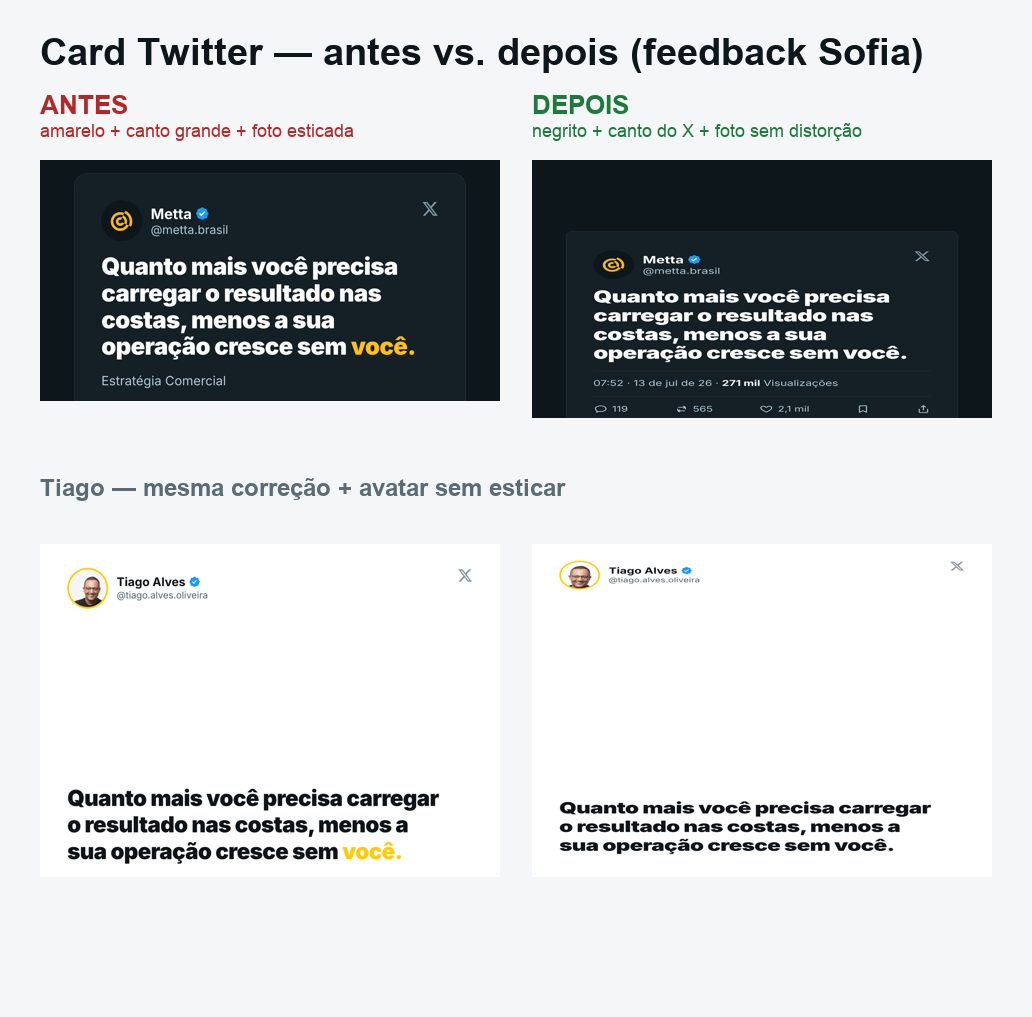
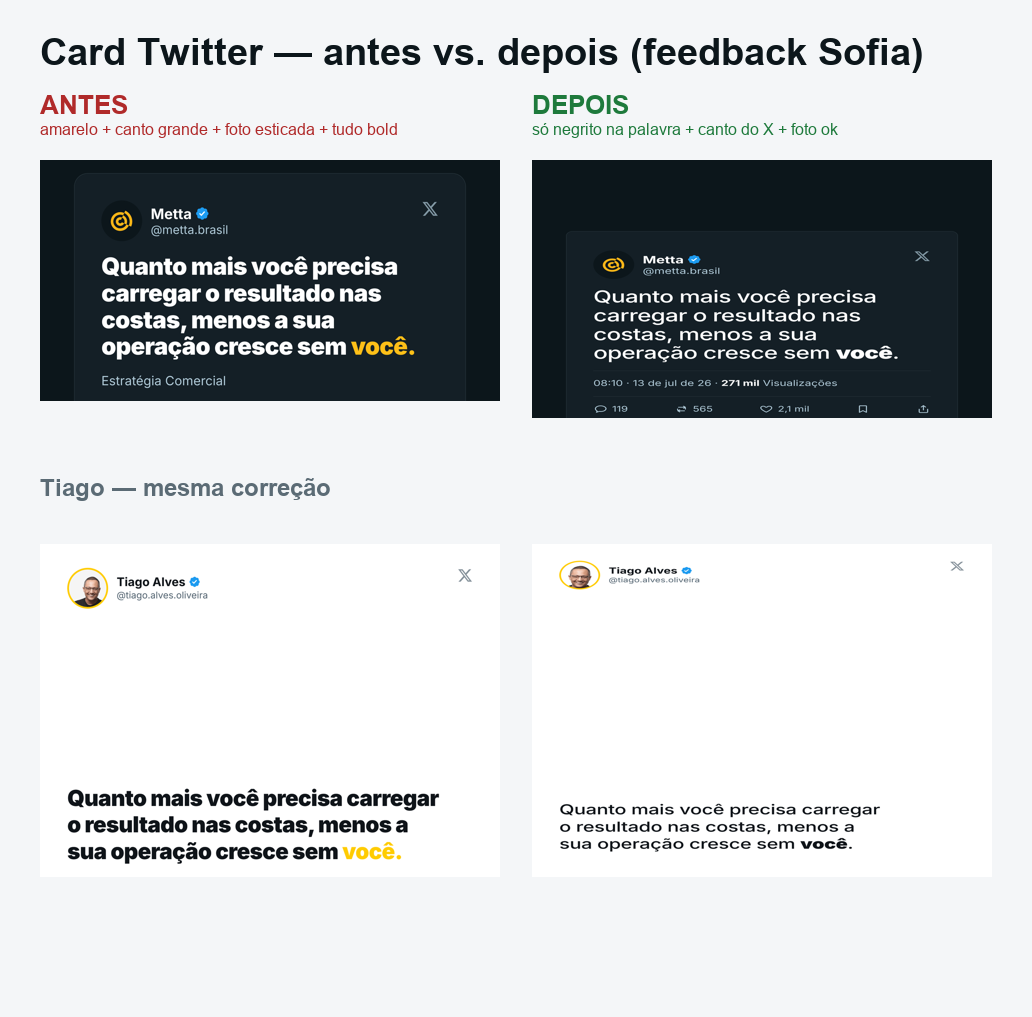
fix(tweet): corpo do texto em peso normal, negrito só na palavra
Tudo em negrito no headline inteiro nao e como o X renderiza (feedback
direto: "vc fez tudo em negrito"). t-head base do card-mock e do
tiago-twitter herdava peso 900 da marca; agora corpo fica 500 (normal) e
so o span .hi (palavra com *asterisco*) fica 900. tiago-twitter tambem
passa a usar a fonte de texto (Inter), nao mais o display da marca — texto
de tweet nao e headline de anuncio.

diff --git a/source/ad-blueprints/_engine.css b/source/ad-blueprints/_engine.css
@@ -405,7 +405,9 @@ button { all: unset; }
 .ad[data-arch="card-mock"] .who .handle { font-family: var(--m-text); font-size: 28px; color: var(--m-night-40); }
 .ad[data-arch="card-mock"] .verified { width: 34px; height: 34px; flex-shrink: 0; }
 .ad[data-arch="card-mock"] .x-logo { width: 40px; height: 40px; margin-left: auto; align-self: flex-start; color: var(--m-night-40); opacity: .7; }
-.ad[data-arch="card-mock"] .t-head { font-family: var(--m-text); font-weight: 700; font-size: 56px; line-height: 1.12; text-transform: none; letter-spacing: -.02em; color: var(--m-night-10); }
+/* print real do X: corpo do tweet é peso normal, só a palavra em negrito
+   (feedback Sofia — "tudo em negrito" não é como o X renderiza). */
+.ad[data-arch="card-mock"] .t-head { font-family: var(--m-text); font-weight: 500; font-variation-settings: normal; font-size: 56px; line-height: 1.12; text-transform: none; letter-spacing: -.02em; color: var(--m-night-10); }
 /* print real do X não tem destaque colorido — só negrito na palavra (feedback Sofia) */
 .ad[data-arch="card-mock"] .t-head .hi { color: inherit; font-weight: 900; }
 .ad[data-arch="card-mock"] .t-body { font-size: 30px; color: var(--m-night-40); }
@@ -676,7 +678,12 @@ button { all: unset; }
 .ad[data-marca="tiago"][data-arch="tiago-twitter"] .x-logo { width: 36px; height: 36px; margin-left: auto; align-self: flex-start; color: var(--t-grey); opacity: .7; }
 .ad[data-marca="tiago"][data-arch="tiago-twitter"] .tw-handle { font-size: 22px; color: var(--t-grey); line-height: 1.2; }
 .ad[data-marca="tiago"][data-arch="tiago-twitter"] .tw-text { display: flex; flex-direction: column; gap: 24px; flex: 1; justify-content: center; }
-.ad[data-marca="tiago"][data-arch="tiago-twitter"] .tw-headline { font-size: 52px; line-height: 1.2; letter-spacing: -.02em; color: var(--t-ink); margin: 0; word-break: break-word; }
+/* print real do X: fonte de texto (nao o display da marca) + peso normal no
+   corpo, só a palavra em negrito (feedback Sofia). */
+.ad[data-marca="tiago"][data-arch="tiago-twitter"] .tw-headline {
+  font-family: var(--t-text, 'Inter', sans-serif); font-weight: 500; font-variation-settings: normal;
+  font-size: 46px; line-height: 1.25; letter-spacing: -.01em; text-transform: none; color: var(--t-ink); margin: 0; word-break: break-word;
+}
 /* print real do X não tem destaque colorido nem bloco — só negrito na palavra (feedback Sofia) */
 .ad[data-marca="tiago"][data-arch="tiago-twitter"] .t-head .hi,
 .ad[data-marca="tiago"][data-arch="tiago-twitter"] .tw-headline .hi { color: inherit; background: none; padding: 0; font-weight: 900; }
